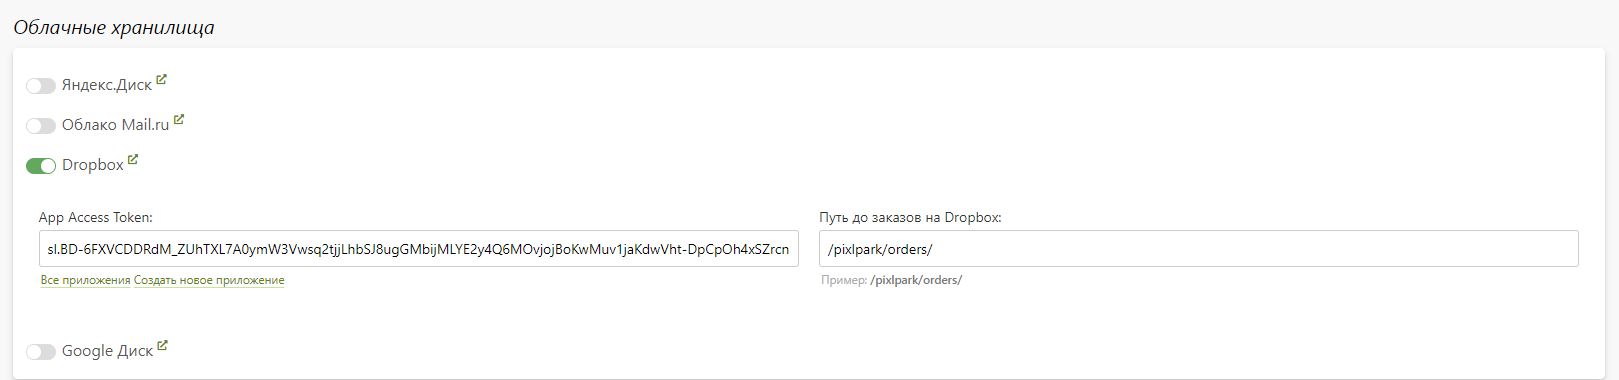
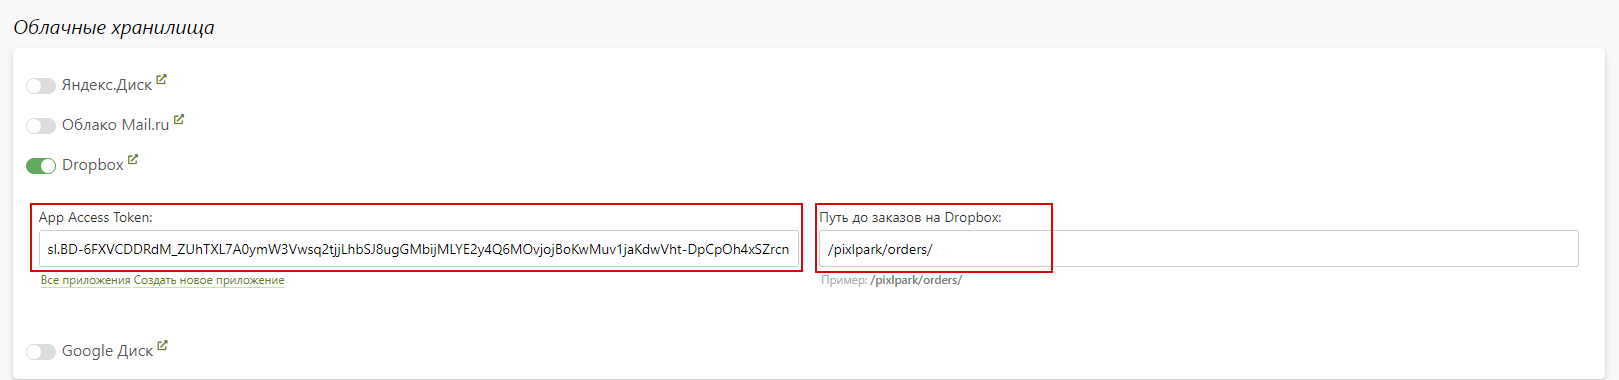
Dropbox

Changed region(s): [[0.0309, 0.6947, 0.6485, 0.7237], [0.0309, 0.5211, 0.6485, 0.55]]

diff --git a/docs/integration/drives.md b/docs/integration/drives.md
@@ -40,3 +40,26 @@
 * Далее нажать кнопку "__Сохранить__" и сбросить кэш сайта.
 * Итоговая настройка выглядит следующим образом:
 ![](../_media/integration/ya19.png ':size=70%')
+
+## Dropbox 
+* Интеграция с [Dropbox](https://www.dropbox.com) позволяет автоматически выгружать заказы в данный облачный сервис.
+* Для настройки интеграции необходимо выполнить следующие действия:
+* Перейти на страницу создания приложения и заполнить поля:
+    + __Choose an API__ - выбрать API "__Scoped access__";
+    + __Choose the type of access you need__ - выбрать тип доступа "__Full Dropbox__";
+    + __Name your app__ - название Вашего приложения.
+* Далее, открыть вкладку "__Permissions__" и в подразделе "__Files and folders__" выбрать:
+    + __Files.metadata.write__;
+    + __Files.content.write__;
+    + __Files.content.read__.
+* Для сохранения изменений в нижней части экрана нужно нажать кнопку "__Submit__".
+* Затем, в подразделе "__OAuth 2 / Generated access token__"  раздела "__Setting__" создать токен, нажав кнопку "__Generate__".
+![](../_media/integration/dropbox01.png ':size=70%')
+* После этого сервис отобразит созданный токен. 
+![](../_media/integration/dropbox02.png ':size=70%')
+* Параллельно необходимо открыть в панели управления Pixlpark раздел "__Заказы / Настройка / Выгрузка заказов__" и в подразделе "__Облачные хранилища__" включить "__Dropbox__".
+* Затем нужно скопировать поле из Dropbox в Pixlpark:
+    + "__Generated access token__" в "__App Access Token__";
+* В поле "__Путь до заказов на Dropbox__" указать путь до заказов на сервисе Dropbox.
+![](../_media/integration/dropbox03.png ':size=70%')
+* Далее нажать кнопку "__Сохранить__" в нижней части экрана и сбросить кэш сайта.
